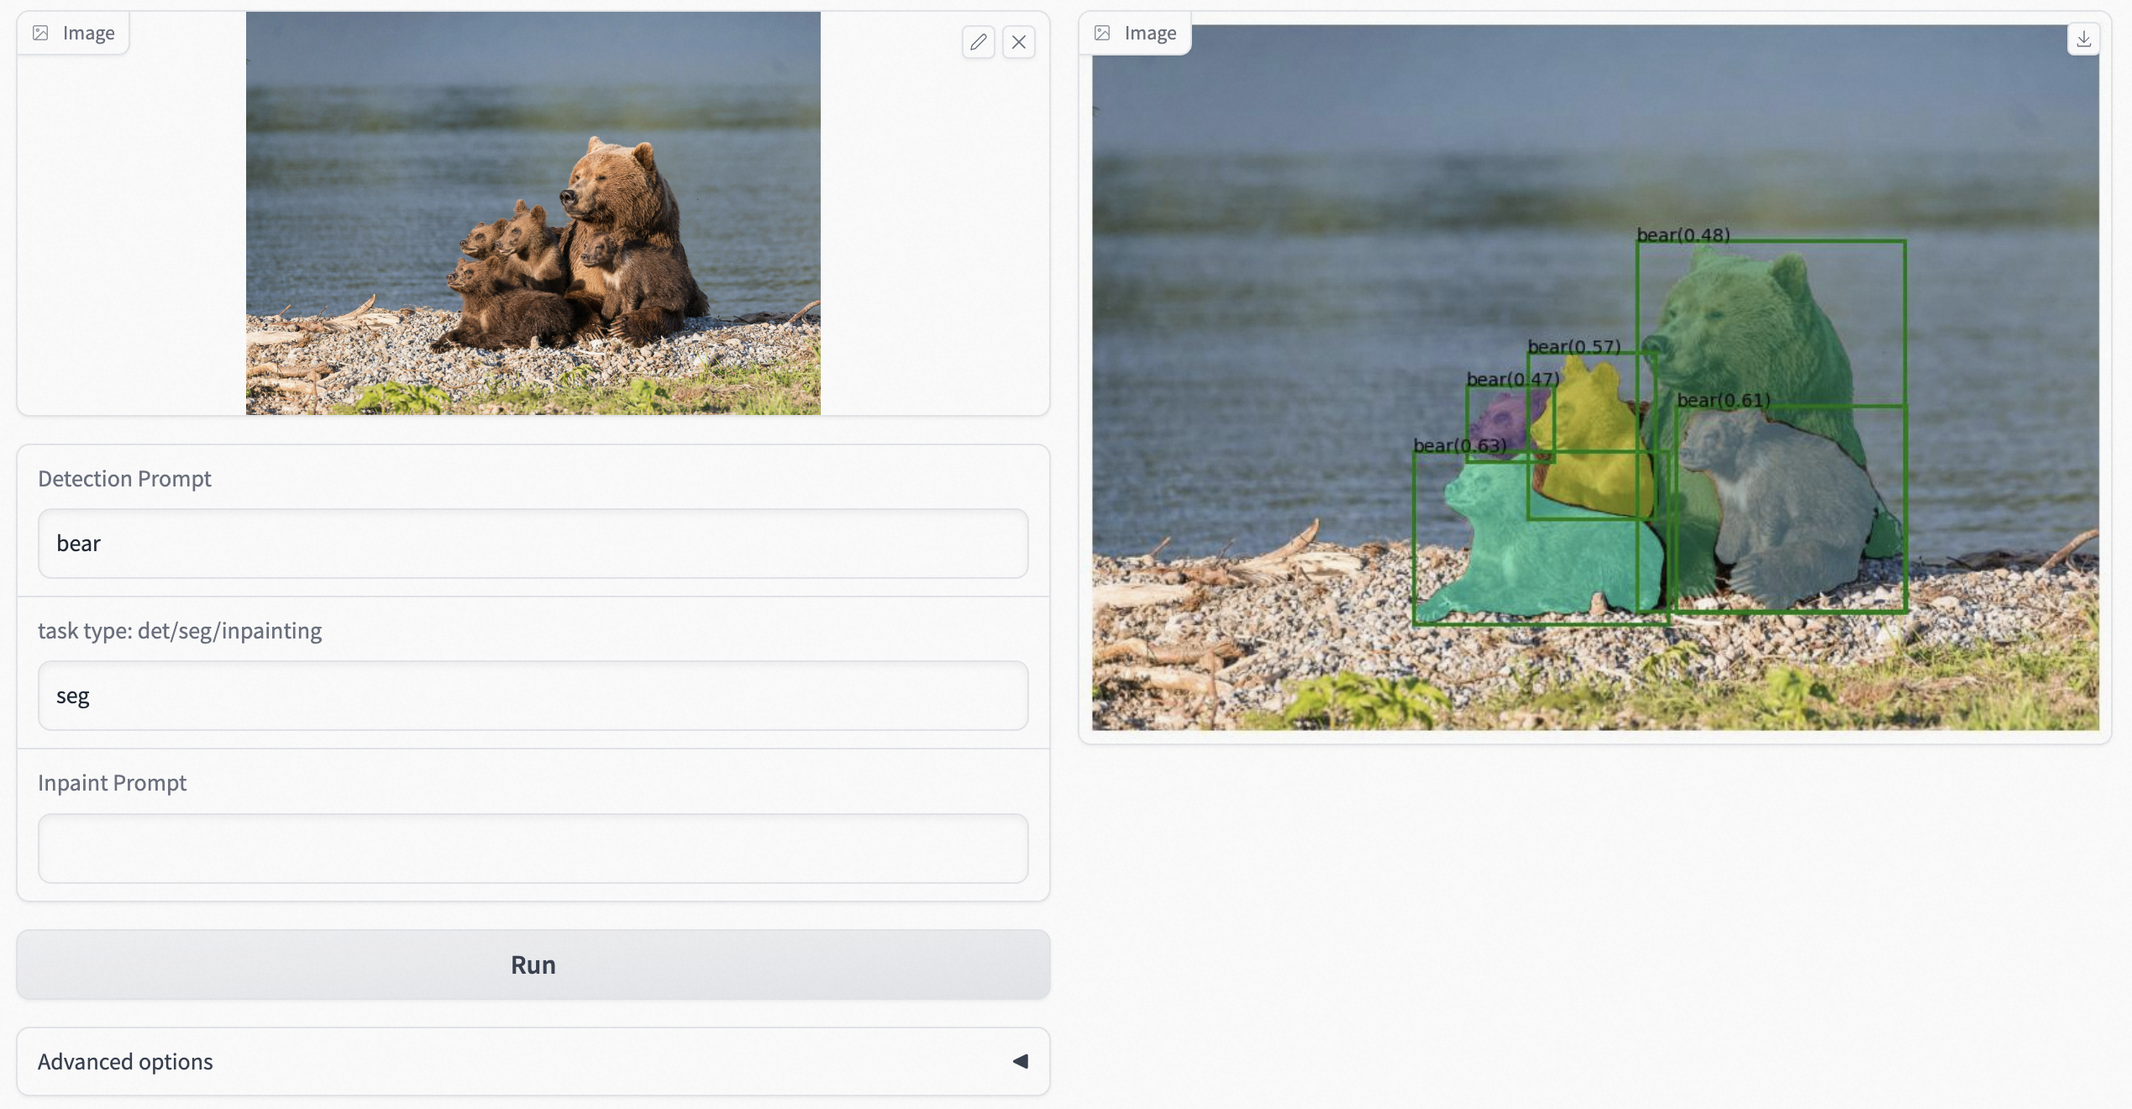
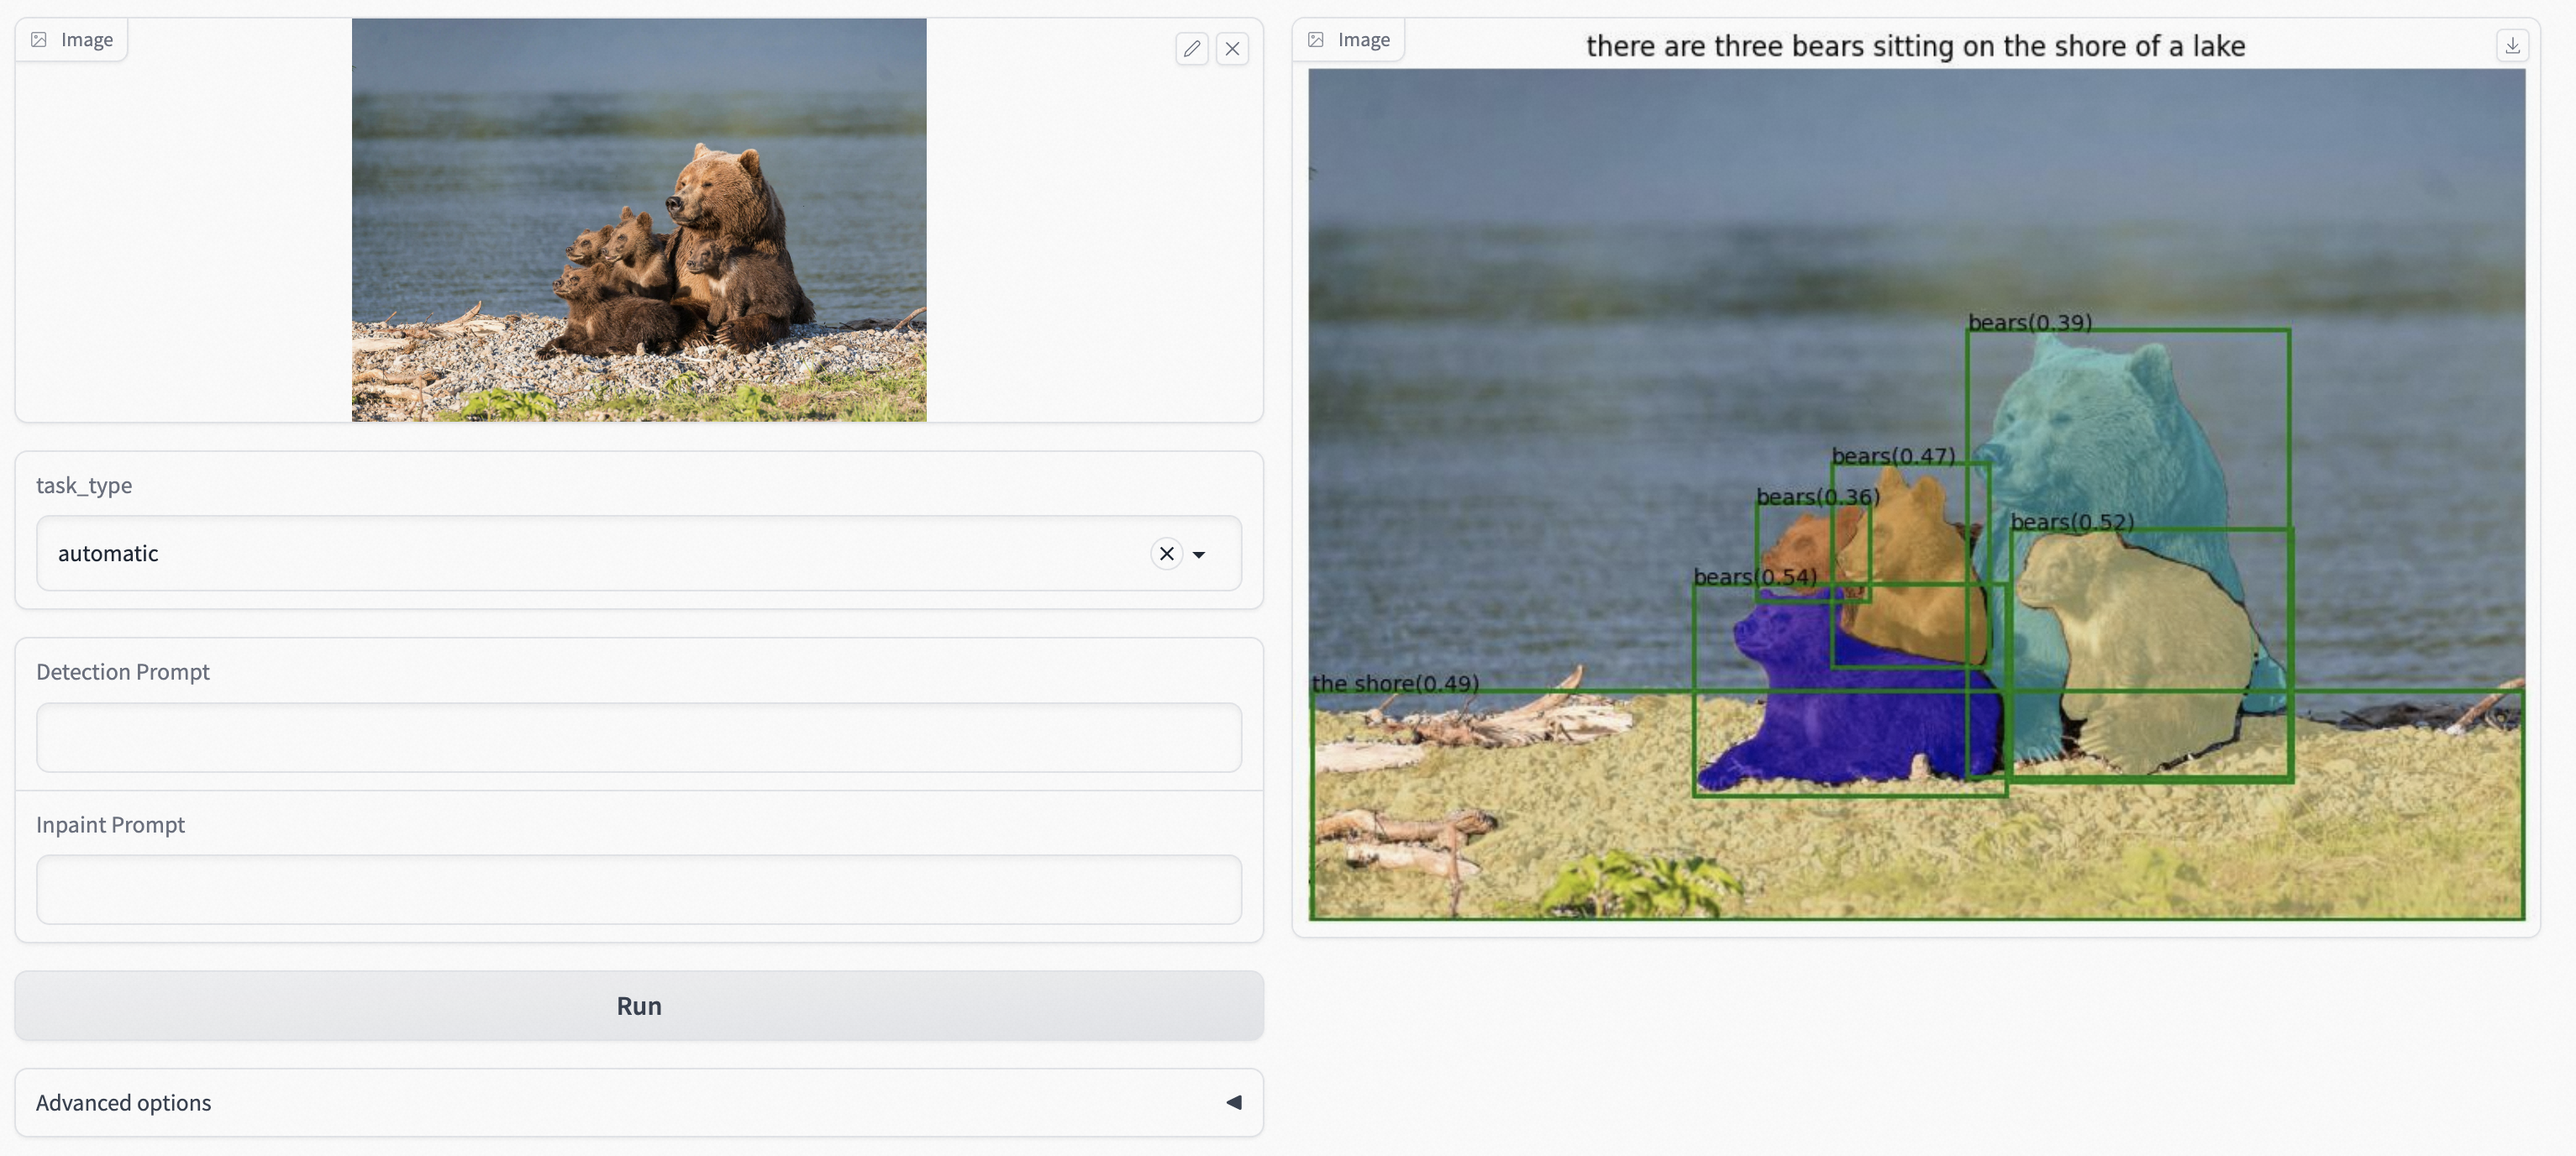
Gradio add automatic (#82)
* gradio_app add automatic

diff --git a/gradio_app.py b/gradio_app.py
@@ -1,11 +1,13 @@
+import os
+# os.system('pip install v0.1.0-alpha2.tar.gz')
 import gradio as gr
 
 import argparse
-import os
 import copy
 
 import numpy as np
 import torch
+import torchvision
 from PIL import Image, ImageDraw, ImageFont
 
 # Grounding DINO
@@ -30,6 +32,10 @@ from io import BytesIO
 from diffusers import StableDiffusionInpaintPipeline
 from huggingface_hub import hf_hub_download
 
+# BLIP
+from transformers import BlipProcessor, BlipForConditionalGeneration
+
+
 def load_model_hf(model_config_path, repo_id, filename, device='cpu'):
     args = SLConfig.fromfile(model_config_path) 
     model = build_model(args)
@@ -41,6 +47,13 @@ def load_model_hf(model_config_path, repo_id, filename, device='cpu'):
     print("Model loaded from {} \n => {}".format(cache_file, log))
     _ = model.eval()
     return model    
+
+def generate_caption(processor, blip_model, raw_image):
+    # unconditional image captioning
+    inputs = processor(raw_image, return_tensors="pt").to("cuda", torch.float16)
+    out = blip_model.generate(**inputs)
+    caption = processor.decode(out[0], skip_special_tokens=True)
+    return caption
 
 def plot_boxes_to_image(image_pil, tgt):
     H, W = tgt["size"]
@@ -135,14 +148,16 @@ def get_grounding_output(model, image, caption, box_threshold, text_threshold, w
     tokenized = tokenlizer(caption)
     # build pred
     pred_phrases = []
+    scores = []
     for logit, box in zip(logits_filt, boxes_filt):
         pred_phrase = get_phrases_from_posmap(logit > text_threshold, tokenized, tokenlizer)
         if with_logits:
             pred_phrases.append(pred_phrase + f"({str(logit.max().item())[:4]})")
         else:
             pred_phrases.append(pred_phrase)
+        scores.append(logit.max().item())
 
-    return boxes_filt, pred_phrases
+    return boxes_filt, torch.Tensor(scores), pred_phrases
 
 def show_mask(mask, ax, random_color=False):
     if random_color:
@@ -168,8 +183,7 @@ sam_checkpoint='sam_vit_h_4b8939.pth'
 output_dir="outputs"
 device="cuda"
 
-def run_grounded_sam(image_path, text_prompt, task_type, inpaint_prompt, box_threshold, text_threshold):
-    assert text_prompt, 'text_prompt is not found!'
+def run_grounded_sam(image_path, text_prompt, task_type, inpaint_prompt, box_threshold, text_threshold, iou_threshold, inpaint_mode):
 
     # make dir
     os.makedirs(output_dir, exist_ok=True)
@@ -177,18 +191,29 @@ def run_grounded_sam(image_path, text_prompt, task_type, inpaint_prompt, box_thr
     image_pil, image = load_image(image_path.convert("RGB"))
     # load model
     model = load_model_hf(config_file, ckpt_repo_id, ckpt_filenmae)
+    # model = load_model(config_file, ckpt_filenmae, device=device)
 
     # visualize raw image
     image_pil.save(os.path.join(output_dir, "raw_image.jpg"))
 
+    if task_type == 'automatic':
+        # generate caption and tags
+        # use Tag2Text can generate better captions
+        # https://huggingface.co/spaces/xinyu1205/Tag2Text
+        # but there are some bugs...
+        processor = BlipProcessor.from_pretrained("Salesforce/blip-image-captioning-large")
+        blip_model = BlipForConditionalGeneration.from_pretrained("Salesforce/blip-image-captioning-large", torch_dtype=torch.float16).to("cuda")
+        text_prompt = generate_caption(processor, blip_model, image_pil)
+        print(f"Caption: {text_prompt}")
+
     # run grounding dino model
-    boxes_filt, pred_phrases = get_grounding_output(
+    boxes_filt, scores, pred_phrases = get_grounding_output(
         model, image, text_prompt, box_threshold, text_threshold, device=device
     )
 
     size = image_pil.size
 
-    if task_type == 'seg' or task_type == 'inpainting':
+    if task_type == 'seg' or task_type == 'inpainting' or task_type == 'automatic':
         # initialize SAM
         predictor = SamPredictor(build_sam(checkpoint=sam_checkpoint))
         image = np.array(image_path)
@@ -201,6 +226,16 @@ def run_grounded_sam(image_path, text_prompt, task_type, inpaint_prompt, box_thr
             boxes_filt[i][2:] += boxes_filt[i][:2]
 
         boxes_filt = boxes_filt.cpu()
+
+        if task_type == 'automatic':
+            # use NMS to handle overlapped boxes
+            print(f"Before NMS: {boxes_filt.shape[0]} boxes")
+            nms_idx = torchvision.ops.nms(boxes_filt, scores, iou_threshold).numpy().tolist()
+            boxes_filt = boxes_filt[nms_idx]
+            pred_phrases = [pred_phrases[idx] for idx in nms_idx]
+            print(f"After NMS: {boxes_filt.shape[0]} boxes")
+            print(f"Revise caption with number: {text_prompt}")
+
         transformed_boxes = predictor.transform.apply_boxes_torch(boxes_filt, image.shape[:2])
 
         masks, _, _ = predictor.predict_torch(
@@ -224,7 +259,7 @@ def run_grounded_sam(image_path, text_prompt, task_type, inpaint_prompt, box_thr
         image_with_box.save(image_path)
         image_result = cv2.cvtColor(cv2.imread(image_path), cv2.COLOR_BGR2RGB)
         return image_result
-    elif task_type == 'seg':
+    elif task_type == 'seg' or task_type == 'automatic':
         assert sam_checkpoint, 'sam_checkpoint is not found!'
 
         # draw output image
@@ -234,6 +269,8 @@ def run_grounded_sam(image_path, text_prompt, task_type, inpaint_prompt, box_thr
             show_mask(mask.cpu().numpy(), plt.gca(), random_color=True)
         for box, label in zip(boxes_filt, pred_phrases):
             show_box(box.numpy(), plt.gca(), label)
+        if task_type == 'automatic':
+            plt.title(text_prompt)
         plt.axis('off')
         image_path = os.path.join(output_dir, "grounding_dino_output.jpg")
         plt.savefig(image_path, bbox_inches="tight")
@@ -242,7 +279,11 @@ def run_grounded_sam(image_path, text_prompt, task_type, inpaint_prompt, box_thr
     elif task_type == 'inpainting':
         assert inpaint_prompt, 'inpaint_prompt is not found!'
         # inpainting pipeline
-        mask = masks[0][0].cpu().numpy() # simply choose the first mask, which will be refine in the future release
+        if inpaint_mode == 'merge':
+            masks = torch.sum(masks, dim=0).unsqueeze(0)
+            masks = torch.where(masks > 0, True, False)
+        else:
+            mask = masks[0][0].cpu().numpy() # simply choose the first mask, which will be refine in the future release
         mask_pil = Image.fromarray(mask)
         
         pipe = StableDiffusionInpaintPipeline.from_pretrained(
@@ -268,15 +309,16 @@ if __name__ == "__main__":
     parser = argparse.ArgumentParser("Grounded SAM demo", add_help=True)
     parser.add_argument("--debug", action="store_true", help="using debug mode")
     parser.add_argument("--share", action="store_true", help="share the app")
+    parser.add_argument('--port', type=int, default=7589, help='port to run the server')
     args = parser.parse_args()
 
     block = gr.Blocks().queue()
     with block:
         with gr.Row():
             with gr.Column():
-                input_image = gr.Image(source='upload', type="pil")
-                text_prompt = gr.Textbox(label="Detection Prompt")
-                task_type = gr.Textbox(label="task type: det/seg/inpainting")
+                input_image = gr.Image(source='upload', type="pil", value="assets/demo1.jpg")
+                task_type = gr.Dropdown(["det", "seg", "inpainting", "automatic"], value="automatic", label="task_type")
+                text_prompt = gr.Textbox(label="Text Prompt")
                 inpaint_prompt = gr.Textbox(label="Inpaint Prompt")
                 run_button = gr.Button(label="Run")
                 with gr.Accordion("Advanced options", open=False):
@@ -286,6 +328,10 @@ if __name__ == "__main__":
                     text_threshold = gr.Slider(
                         label="Text Threshold", minimum=0.0, maximum=1.0, value=0.25, step=0.001
                     )
+                    iou_threshold = gr.Slider(
+                        label="IOU Threshold", minimum=0.0, maximum=1.0, value=0.5, step=0.001
+                    )
+                    inpaint_mode = gr.Dropdown(["merge", "first"], value="merge", label="inpaint_mode")
 
             with gr.Column():
                 gallery = gr.outputs.Image(
@@ -293,7 +339,7 @@ if __name__ == "__main__":
                 ).style(full_width=True, full_height=True)
 
         run_button.click(fn=run_grounded_sam, inputs=[
-                        input_image, text_prompt, task_type, inpaint_prompt, box_threshold, text_threshold], outputs=[gallery])
+                        input_image, text_prompt, task_type, inpaint_prompt, box_threshold, text_threshold, iou_threshold, inpaint_mode], outputs=[gallery])
 
 
-    block.launch(server_name='0.0.0.0', server_port=7589, debug=args.debug, share=args.share)
+    block.launch(server_name='0.0.0.0', server_port=args.port, debug=args.debug, share=args.share)

diff --git a/grounded_sam_whisper_inpainting_demo.py b/grounded_sam_whisper_inpainting_demo.py
@@ -177,6 +177,7 @@ if __name__ == "__main__":
     parser.add_argument("--whisper_model", type=str, default="small", help="whisper model version: tiny, base, small, medium, large")
     parser.add_argument("--box_threshold", type=float, default=0.3, help="box threshold")
     parser.add_argument("--text_threshold", type=float, default=0.25, help="text threshold")
+    parser.add_argument("--inpaint_mode", type=str, default="first", help="inpaint mode")
     parser.add_argument("--device", type=str, default="cpu", help="running on cpu only!, default=False")
     parser.add_argument("--prompt_extra", type=str, default=" high resolution, real scene", help="extra prompt for inpaint")
     args = parser.parse_args()
@@ -190,6 +191,7 @@ if __name__ == "__main__":
     output_dir = args.output_dir
     box_threshold = args.box_threshold
     text_threshold = args.box_threshold
+    inpaint_mode = args.inpaint_mode
     device = args.device
 
     # make dir
@@ -250,7 +252,11 @@ if __name__ == "__main__":
     # masks: [1, 1, 512, 512]
 
     # inpainting pipeline
-    mask = masks[0][0].cpu().numpy() # simply choose the first mask, which will be refine in the future release
+    if inpaint_mode == 'merge':
+        masks = torch.sum(masks, dim=0).unsqueeze(0)
+        masks = torch.where(masks > 0, True, False)
+    else:
+        mask = masks[0][0].cpu().numpy() # simply choose the first mask, which will be refine in the future release
     mask_pil = Image.fromarray(mask)
     image_pil = Image.fromarray(image)
     

diff --git a/grounded_sam_inpainting_demo.py b/grounded_sam_inpainting_demo.py
@@ -125,6 +125,7 @@ if __name__ == "__main__":
 
     parser.add_argument("--box_threshold", type=float, default=0.3, help="box threshold")
     parser.add_argument("--text_threshold", type=float, default=0.25, help="text threshold")
+    parser.add_argument("--inpaint_mode", type=str, default="first", help="inpaint mode")
     parser.add_argument("--device", type=str, default="cpu", help="running on cpu only!, default=False")
     args = parser.parse_args()
 
@@ -138,6 +139,7 @@ if __name__ == "__main__":
     output_dir = args.output_dir
     box_threshold = args.box_threshold
     text_threshold = args.box_threshold
+    inpaint_mode = args.inpaint_mode
     device = args.device
 
     # make dir
@@ -181,7 +183,11 @@ if __name__ == "__main__":
     # masks: [1, 1, 512, 512]
 
     # inpainting pipeline
-    mask = masks[0][0].cpu().numpy() # simply choose the first mask, which will be refine in the future release
+    if inpaint_mode == 'merge':
+        masks = torch.sum(masks, dim=0).unsqueeze(0)
+        masks = torch.where(masks > 0, True, False)
+    else:
+        mask = masks[0][0].cpu().numpy() # simply choose the first mask, which will be refine in the future release
     mask_pil = Image.fromarray(mask)
     image_pil = Image.fromarray(image)
     
